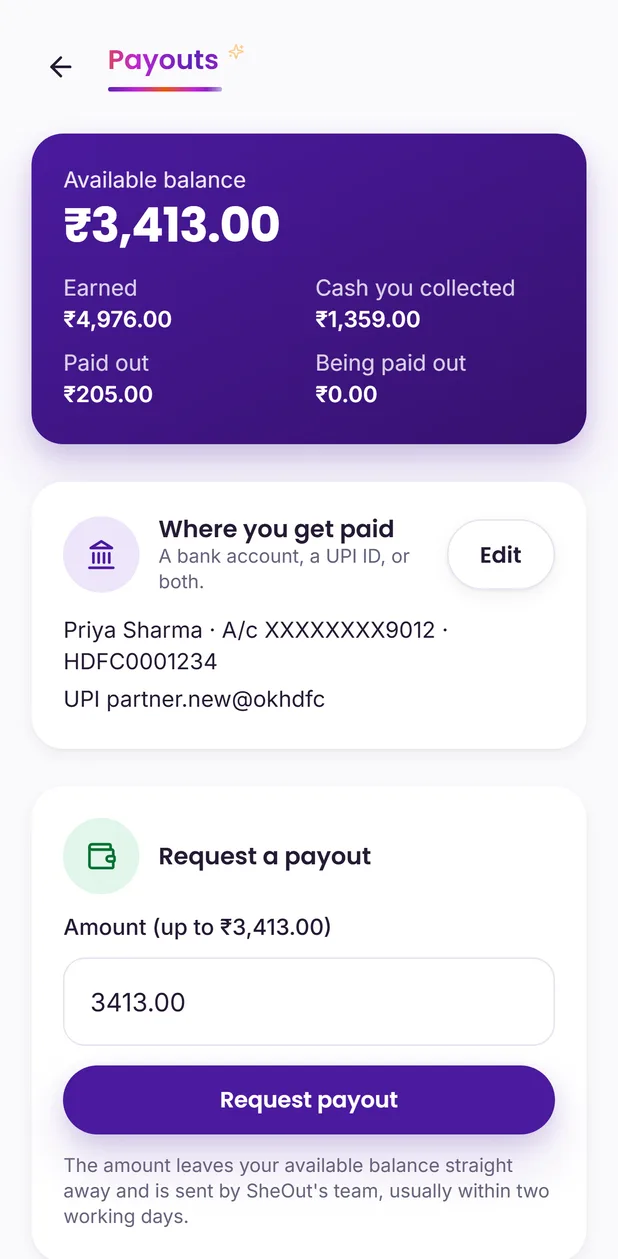
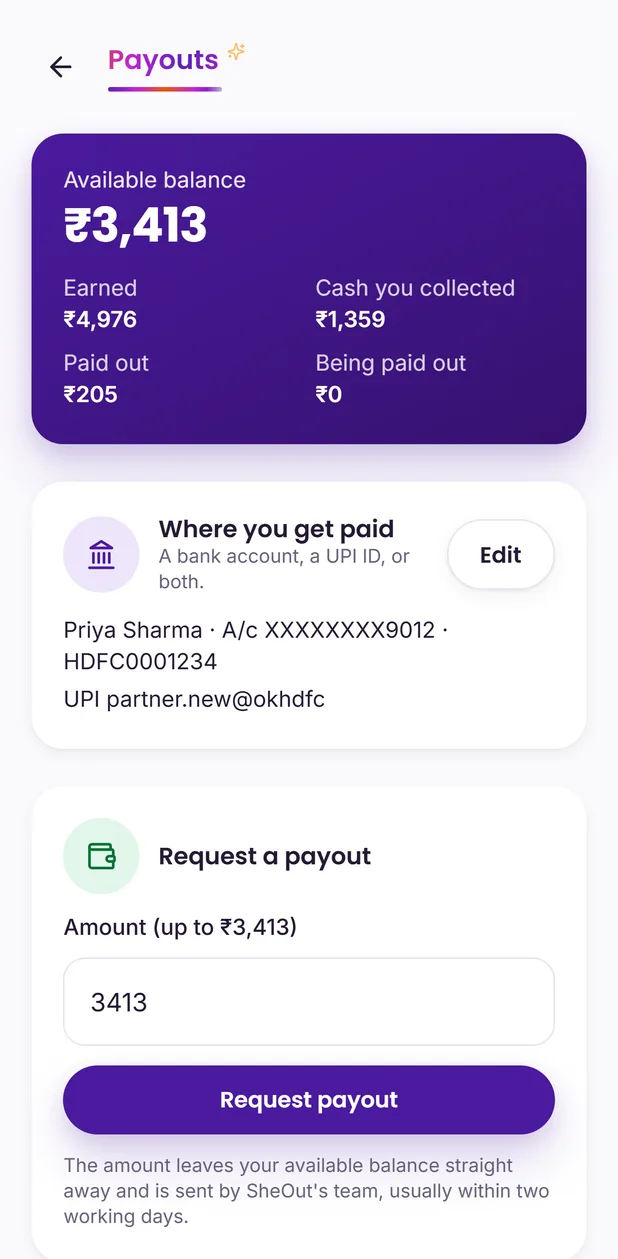
Payouts screenshot re-shot from the whole-rupee build: ₹3,413, not ₹3,413.00

diff --git a/docs/marketing-assets.md b/docs/marketing-assets.md
@@ -28,7 +28,7 @@ checks it in CI.
 | Share image (`og-image.jpg`) | Rebuilt from re-shot screens without a map |
 | Hero loop (`media/hero-*`) | Re-rendered from re-shot screens without a map. The trip sequence returns when the map screens are re-shot |
 | "Sell on SheOut" video | **Taken off the site.** It shows the removed illustrations and category photos (it is silent; there is no voice). The marketplace screen stands in. The same video still ships inside the customer app (`customer-app/public/videos/sell-on-sheout.*`) and needs the same re-recording |
-| Partner payouts screen | Showed `₹3,413.00`: the screen printed two decimals. Fixed in the app on `fix/whole-rupee-money`; the payouts screenshot is re-shot after that merges |
+| Partner payouts screen | Showed `₹3,413.00`: the screen printed two decimals. Fixed in the app on `fix/whole-rupee-money`; the site screenshot was re-shot from that build and reads `₹3,413` |
 
 ## How to re-shoot
 
